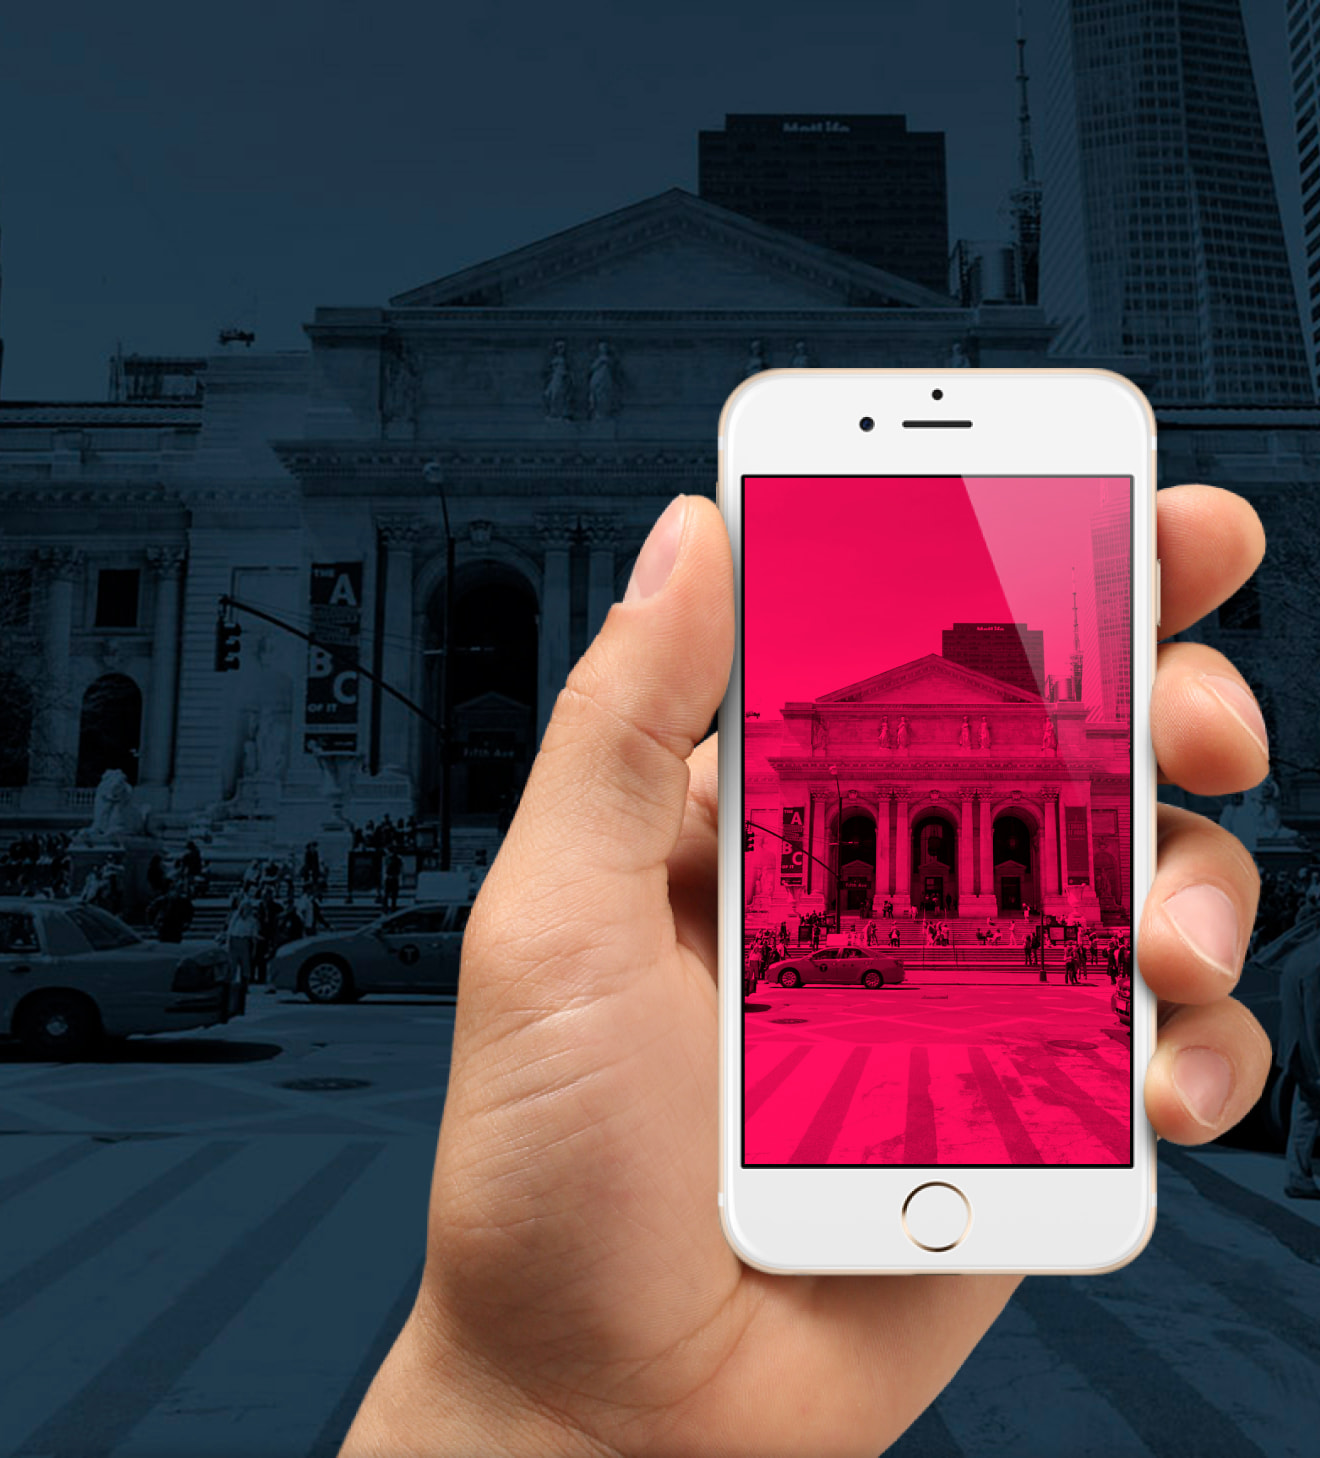
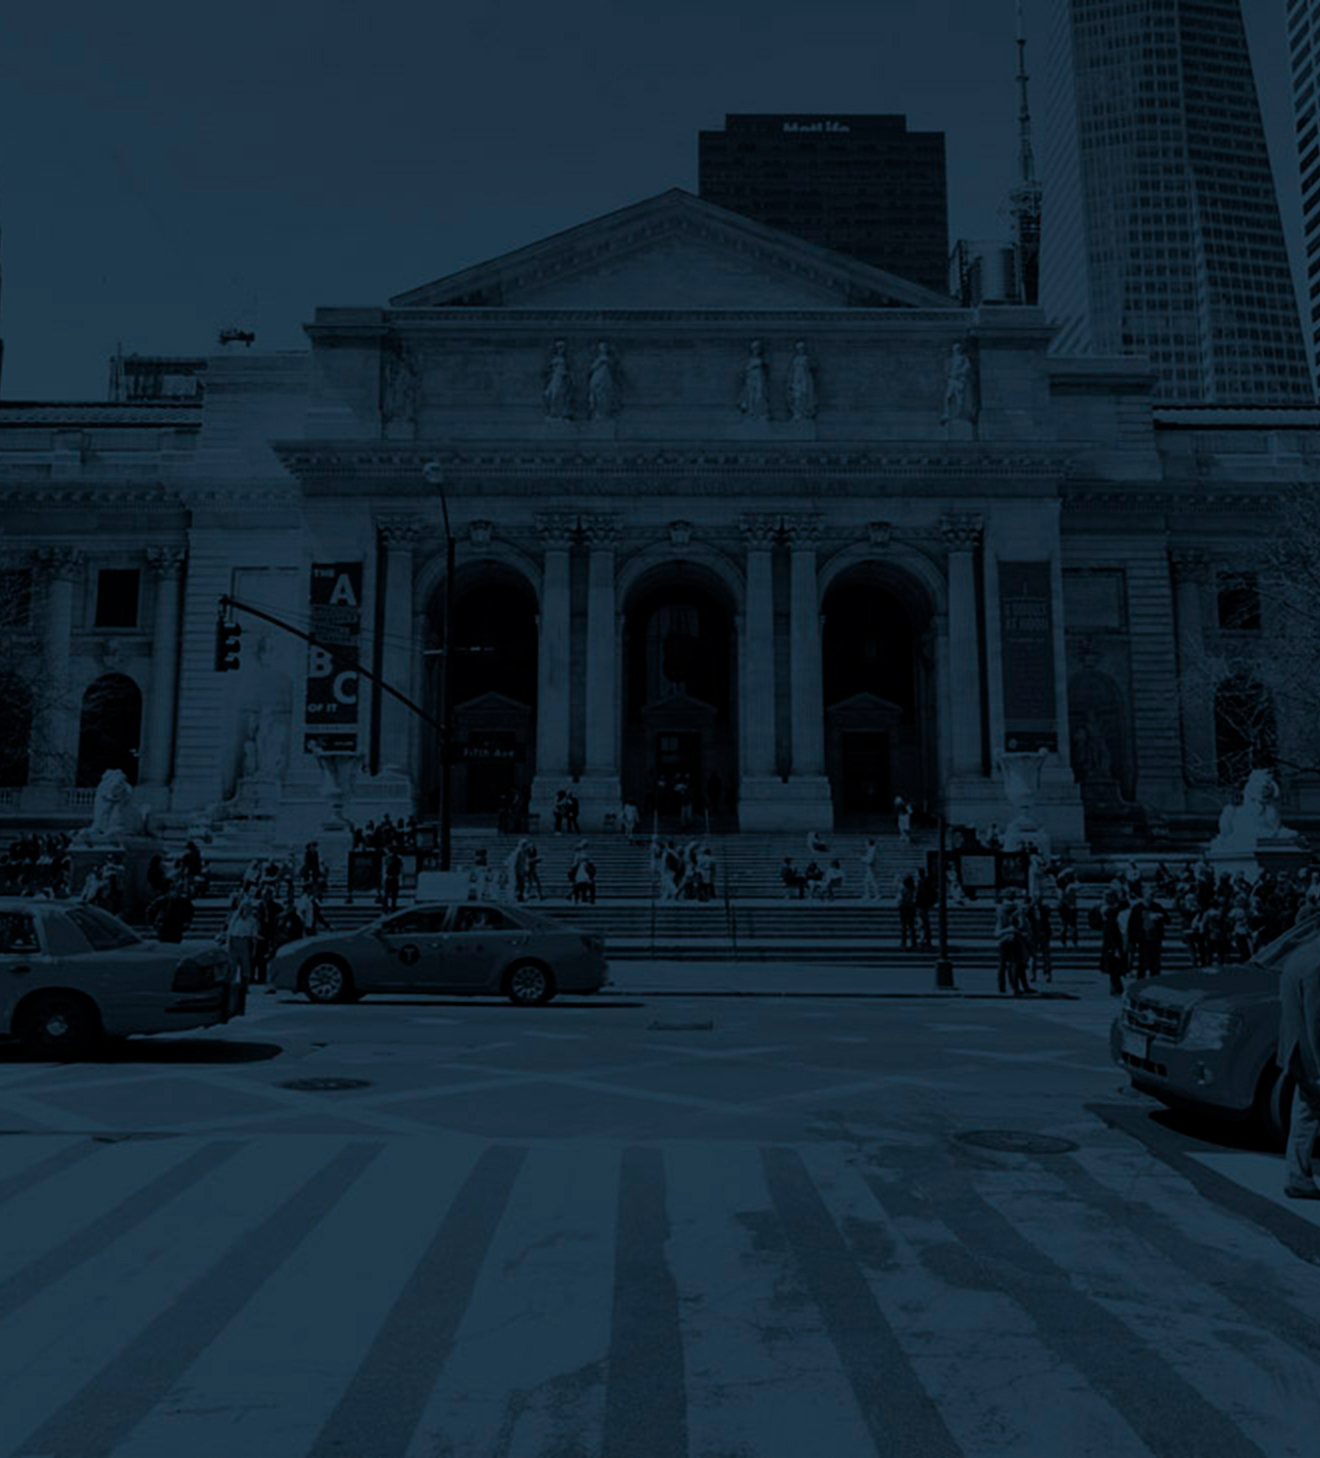
downloads

diff --git a/source/index.html b/source/index.html
@@ -58,15 +58,8 @@
 
     <main class="page__main">
       <h1 class="visually-hidden" aria-label="Мобильное приложение PINK">Мобильное приложение PINK</h1>
-      <section class="downloads">
-        <div class="downloads__background">
-          <strong class="downloads__title downloads__title--mobile">Взгляните на жизнь иначе!</strong>
-       <!--   <picture>
-            <source srcset="img/background/back-desktop.jpg" type="image/jpeg" media="(min-width: 1200px)">
-            <source srcset="img/background/back-tablet.jpg" type="image/jpeg" media="(min-width: 768px)">
-            <img class="downloads__image" src="img/background/back-mobile.jpg" alt="Фон,рука с телефоном">
-          </picture>-->
-        </div>
+      <section class="downloads downloads--index">
+        <strong class="downloads__title downloads__title--mobile">Взгляните на жизнь иначе!</strong>
         <h2 class="visually-hidden">Загрузка приложения на разные платформы</h2>
         <div class="downloads__buttons-block">
           <div class="downloads__wrapper">
@@ -113,8 +106,8 @@
             <li class="advantages__item advantages__item--1">
               <div class="advantages__box advantages__box--desktop">
                 <picture>
-                  <source srcset="img/background/iphone-grey-screen-desktop.png" type="image/png" media="(min-width: 1200px)">
-                  <img src="img/background/iphone-grey-screen-desktop.png" width="186" height="301" alt="">
+                  <source srcset="img/background/iphone-grey-screen-desktop@1x.png" type="image/png" media="(min-width: 1200px)">
+                  <img src="img/background/iphone-grey-screen-desktop@1x.png" width="186" height="301" alt="">
                 </picture>
               </div>
               <h3 class="advantages__title">Поднимает настроение</h3>
@@ -124,8 +117,8 @@
             <li class="advantages__item advantages__item--2">
               <div class="advantages__box advantages__box--desktop">
                 <picture>
-                  <source srcset="img/background/iphone-pink-screen-desktop.png" type="image/png" media="(min-width: 1200px)">
-                  <img src="img/background/iphone-pink-screen-desktop.png" width="186" height="301" alt="">
+                  <source srcset="img/background/iphone-pink-screen-desktop@1x.png" type="image/png" media="(min-width: 1200px)">
+                  <img src="img/background/iphone-pink-screen-desktop@1x.png" width="186" height="301" alt="">
                 </picture>
               </div>
               <h3 class="advantages__title">Меняет мир вокруг</h3>
@@ -136,8 +129,8 @@
             <li class="advantages__item advantages__item--3">
               <div class="advantages__box advantages__box--desktop">
                 <picture>
-                  <source srcset="img/background/iphone-smile-screen-desktop.png" type="image/png" media="(min-width: 1200px)">
-                  <img src="img/background/iphone-smile-screen-desktop.png" width="186" height='301' alt="">
+                  <source srcset="img/background/iphone-smile-screen-desktop@1x.png" type="image/png" media="(min-width: 1200px)">
+                  <img src="img/background/iphone-smile-screen-desktop@1x.png" width="186" height='301' alt="">
                 </picture>
               </div>
               <h3 class="advantages__title">Заводит новых друзей</h3>

diff --git a/source/sass/blocks/downloads.scss b/source/sass/blocks/downloads.scss
@@ -1,21 +1,26 @@
 
-.downloads {
+.downloads--index{
   margin: 0 auto 46px auto;
-  width: 100%;
-
-}
-
-.downloads__background {
   position: relative;
-  background-image: url("../../img/background/back-mobile.jpg");
+  width: 100%;
+  padding-top: 66px;
+  background-color: $color-blue;
+  background-image: url("../../img/background/phone-mobile@1x.png"), url("../../img/background/back-mobile.jpg");
   background-repeat: no-repeat;
-  background-position: 50% 106px, 50% -70px;
+  background-position: center top 176px,top;
+
+
+
+  @media (min-resolution: 2dppx) {
+    background-image: url("../../img/background/phone-mobile@2x.png"), url("../../img/background/back-mobile@2x.jpg");
+    background-size: contain;
+  }
 }
 
-.downloads__image {
-  display: block;
-  width: 100%;
-  height: 100%;
+.downloads__wrapper {
+  width: 320px;
+
+  @include wrapper
 }
 
 .downloads__title {
@@ -26,7 +31,7 @@
   position: absolute;
   display: block;
   top: 95px;
-  left:0;
+  left: 0;
   padding: 0 45px;
   font-size: 24px;
   line-height: 28px;
@@ -36,8 +41,9 @@
 }
 
 .downloads__buttons-block {
+  margin: 395px 0 0 0 ;
   padding-top: 28px;
-  background-color: #1D2631;
+  background-color: $color-blue;
 }
 
 .downloads__wrapper {
@@ -48,14 +54,14 @@
 .downloads__link {
   display: inline-block;
   margin-bottom: 38px;
-  padding: 21px 38px;
+  padding: 16px 35px;
   font-size: 18px;
   line-height: 18px;
   font-weight: 700;
   color: $color-white;
   cursor: pointer;
   border: 3px solid $color-white;
-  border-radius: 30px;
+  border-radius: 40px;
 
   @include link-unstyled
 }
@@ -70,13 +76,12 @@ color: $color-red-thirty;
 }
 
 .downloads__list {
-  margin:0 0 30px 0;
+  margin:0 0 10px 0;
   padding: 0;
   display: flex;
   justify-content: center;
   align-items: center;
   list-style: none;
-
 }
 
 .downloads__link-app {
@@ -86,7 +91,7 @@ color: $color-red-thirty;
 
 .downloads__text {
   margin: 0;
-  padding: 0 0 38px 0;
+  padding: 0 0 30px 0;
   font-size: 14px;
   line-height: 24px;
   font-weight: 300;
@@ -95,9 +100,15 @@ color: $color-red-thirty;
 
 @media (min-width: 768px) {
 
-  .downloads {
+  .downloads--index {
     margin-bottom: 58px;
     position: relative;
+    background-image: url("../../img/background/phone-tablet@1x.png"),url("../../img/background/back-tablet.jpg");
+    background-position: center top 214px,top;
+
+    @media (min-resolution: 2dppx) {
+      background-image: url("../../img/background/phone-tablet@2x.png"),url("../../img/background/back-tablet@2x.jpg");
+    }
   }
 
   .downloads__wrapper {
@@ -125,7 +136,6 @@ color: $color-red-thirty;
   }
 
   .downloads__buttons-block {
-    position: absolute;
     top: 150px;
     padding: 0;
     width: 660px;

diff --git a/templates/template-advantages.html b/templates/template-advantages.html
@@ -14,8 +14,8 @@
           <li class="advantages__item advantages__item--1">
             <div class="advantages__box advantages__box--desktop">
               <picture>
-                <source srcset="../source/img/background/iphone-grey-screen-desktop.png" type="image/png" media="(min-width: 1200px)">
-                <img src="../source/img/background/iphone-grey-screen-desktop.png" width="186" height="301" alt="">
+                <source srcset="../source/img/background/iphone-grey-screen-desktop@1x.png" type="image/png" media="(min-width: 1200px)">
+                <img src="../source/img/background/iphone-grey-screen-desktop@1x.png" width="186" height="301" alt="">
               </picture>
             </div>
             <h3 class="advantages__title">Поднимает настроение</h3>
@@ -25,8 +25,8 @@
           <li class="advantages__item advantages__item--2">
             <div class="advantages__box advantages__box--desktop">
               <picture>
-                <source srcset="../source/img/background/iphone-pink-screen-desktop.png" type="image/png" media="(min-width: 1200px)">
-                <img src="../source/img/background/iphone-pink-screen-desktop.png" width="186" height="301" alt="">
+                <source srcset="../source/img/background/iphone-pink-screen-desktop@1x.png" type="image/png" media="(min-width: 1200px)">
+                <img src="../source/img/background/iphone-pink-screen-desktop@1x.png" width="186" height="301" alt="">
               </picture>
             </div>
             <h3 class="advantages__title">Меняет мир вокруг</h3>
@@ -36,8 +36,8 @@
           <li class="advantages__item advantages__item--3">
             <div class="advantages__box advantages__box--desktop">
               <picture>
-                <source srcset="../source/img/background/iphone-smile-screen-desktop.png" type="image/png" media="(min-width: 1200px)">
-                <img src="../source/img/background/iphone-smile-screen-desktop.png" width="186" height='301' alt="">
+                <source srcset="../source/img/background/iphone-smile-screen-desktop@1x.png" type="image/png" media="(min-width: 1200px)">
+                <img src="../source/img/background/iphone-smile-screen-desktop@1x.png" width="186" height='301' alt="">
               </picture>
             </div>
             <h3 class="advantages__title">Заводит новых друзей</h3>

diff --git a/source/sass/global/fonts.scss b/source/sass/global/fonts.scss
@@ -1,29 +1,31 @@
 @font-face {
   font-family: "Open Sans";
-  src: local("Open Sans"),
-    url("./source/fonts/opensans.woff2") format("woff2"),
-    url("./source/fonts/opensans.woff") format("woff");
   font-style: normal;
   font-weight: 400;
   font-display: swap;
+  src: local("Open Sans"),
+    url("../../fonts/opensans.woff2") format("woff2"),
+    url("../../fonts/opensans.woff") format("woff");
 }
 
 @font-face {
   font-family: "Open Sans";
-  src: local("Open Sans"),
-    url("./source/fonts/opensanslight.woff2") format("woff2"),
-    url("./source/fonts/opensanslight.woff") format("woff");
-  font-style: normal;
-  font-weight: 300;
-  font-display: swap;
-}
-
-@font-face {
-  font-family: "Open Sans";
-  src: local("Open Sans"),
-    url("./source/fonts/opensansbold.woff2") format("woff2"),
-    url("./source/fonts/opensansbold.woff") format("woff");
   font-style: normal;
   font-weight: 700;
   font-display: swap;
+  src: local("Open Sans"),
+  url("../../fonts/opensansbold.woff2") format("woff2"),
+  url("../../fonts/opensansbold.woff") format("woff");
 }
+
+@font-face {
+  font-family: "Open Sans";
+  font-style: normal;
+  font-weight: 300;
+  font-display: swap;
+  src: local("Open Sans"),
+    url("../../fonts/opensanslight.woff2") format("woff2"),
+    url("../../fonts/opensanslight.woff") format("woff");
+}
+
+

diff --git a/source/sass/blocks/page-header.scss b/source/sass/blocks/page-header.scss
@@ -1,5 +1,4 @@
 .page-header {
-
   margin-bottom: -69px;
   width: 100%;
   min-width: 280px;
@@ -16,7 +15,7 @@
   display: flex;
   justify-content: space-between;
   align-items: center;
-  width: 100%;
+  width: 320px;
   padding-top: 7px;
   padding-bottom: 7px;
 
@@ -24,6 +23,7 @@
 }
 
 .page-checkbox:checked ~ .page-header__wrapper {
+  width: 100%;
   background-color: $color-basic-black;
   border-bottom: 1px solid $color-original-black;
 }
@@ -179,6 +179,7 @@
   }
 
   .page-header__wrapper {
+    width: 660px;
     padding-bottom: 27px;
     padding-top: 27px;
   }

diff --git a/source/sass/global/variables.scss b/source/sass/global/variables.scss
@@ -3,7 +3,7 @@
   $color-white: #ffffff;
   $color-white-transparent: rgba(255, 255, 255, .15);
   $color-white-thirty: rgba(255, 255, 255, .3);
-  $color-downloads: #1d2631;
+  $color-blue: #1d2631;
   $color-basic-black: #283645;
   $black-transparent: rgba(40, 54, 69, .3);
   $black-10: rgba(40, 54, 69, .1);
@@ -16,6 +16,5 @@
   $color-red-thirty: rgba(210, 40, 86, .3);
   $color-green: #2aab6d;
   $color-extra-grey: #c5c5c5;
-  $font: "Open Sans", "arial", sans-serif;
 
 

diff --git a/source/sass/blocks/page.scss b/source/sass/blocks/page.scss
@@ -1,5 +1,6 @@
 .page {
   min-height: 100%;
+  font-family: "Open Sans", "Arial", sans-serif;
 }
 
 .page__body {
@@ -8,7 +9,6 @@
   grid-template-columns: 1fr;
   grid-template-rows: min-content 1fr min-content;
   min-height: 100vh;
-  font-family: "Open Sans", "arial", sans-serif;
   font-size: 14px;
   line-height: 24px;
 }

diff --git a/source/sass/blocks/header-form.scss b/source/sass/blocks/header-form.scss
@@ -1,6 +1,5 @@
 .header-form {
   position: absolute;
-  font-family: "Open Sans",arial,sans-serif;
   background-color: rgba(0, 0, 0, 0.3);
   outline: 3px solid darkorchid;
   width: 100%;

diff --git a/source/sass/blocks/tariff-plans.scss b/source/sass/blocks/tariff-plans.scss
@@ -3,7 +3,6 @@
   position: relative;
   width: 100%;
   min-width: 280px;
-  font-family: $font;
   text-transform: uppercase;
   background-color: $color-grey;
 

diff --git a/source/sass/blocks/photos.scss b/source/sass/blocks/photos.scss
@@ -4,7 +4,6 @@
   padding-top: 54px;
   width: 320px;
   height: 100vh;
-  font-family: $font;
   color: $color-basic-black;
 }
 

diff --git a/source/sass/blocks/studies.scss b/source/sass/blocks/studies.scss
@@ -2,7 +2,6 @@
 .studies {
   margin-bottom: 109px;
   display: none;
-  font-family: $font;
 }
 
 .studies__wrapper {

diff --git a/source/sass/blocks/advantages.scss b/source/sass/blocks/advantages.scss
@@ -1,6 +1,5 @@
 .advantages {
   margin-bottom: 50px;
-  font-family: $font;
   background-color: $color-grey;
 }
 
